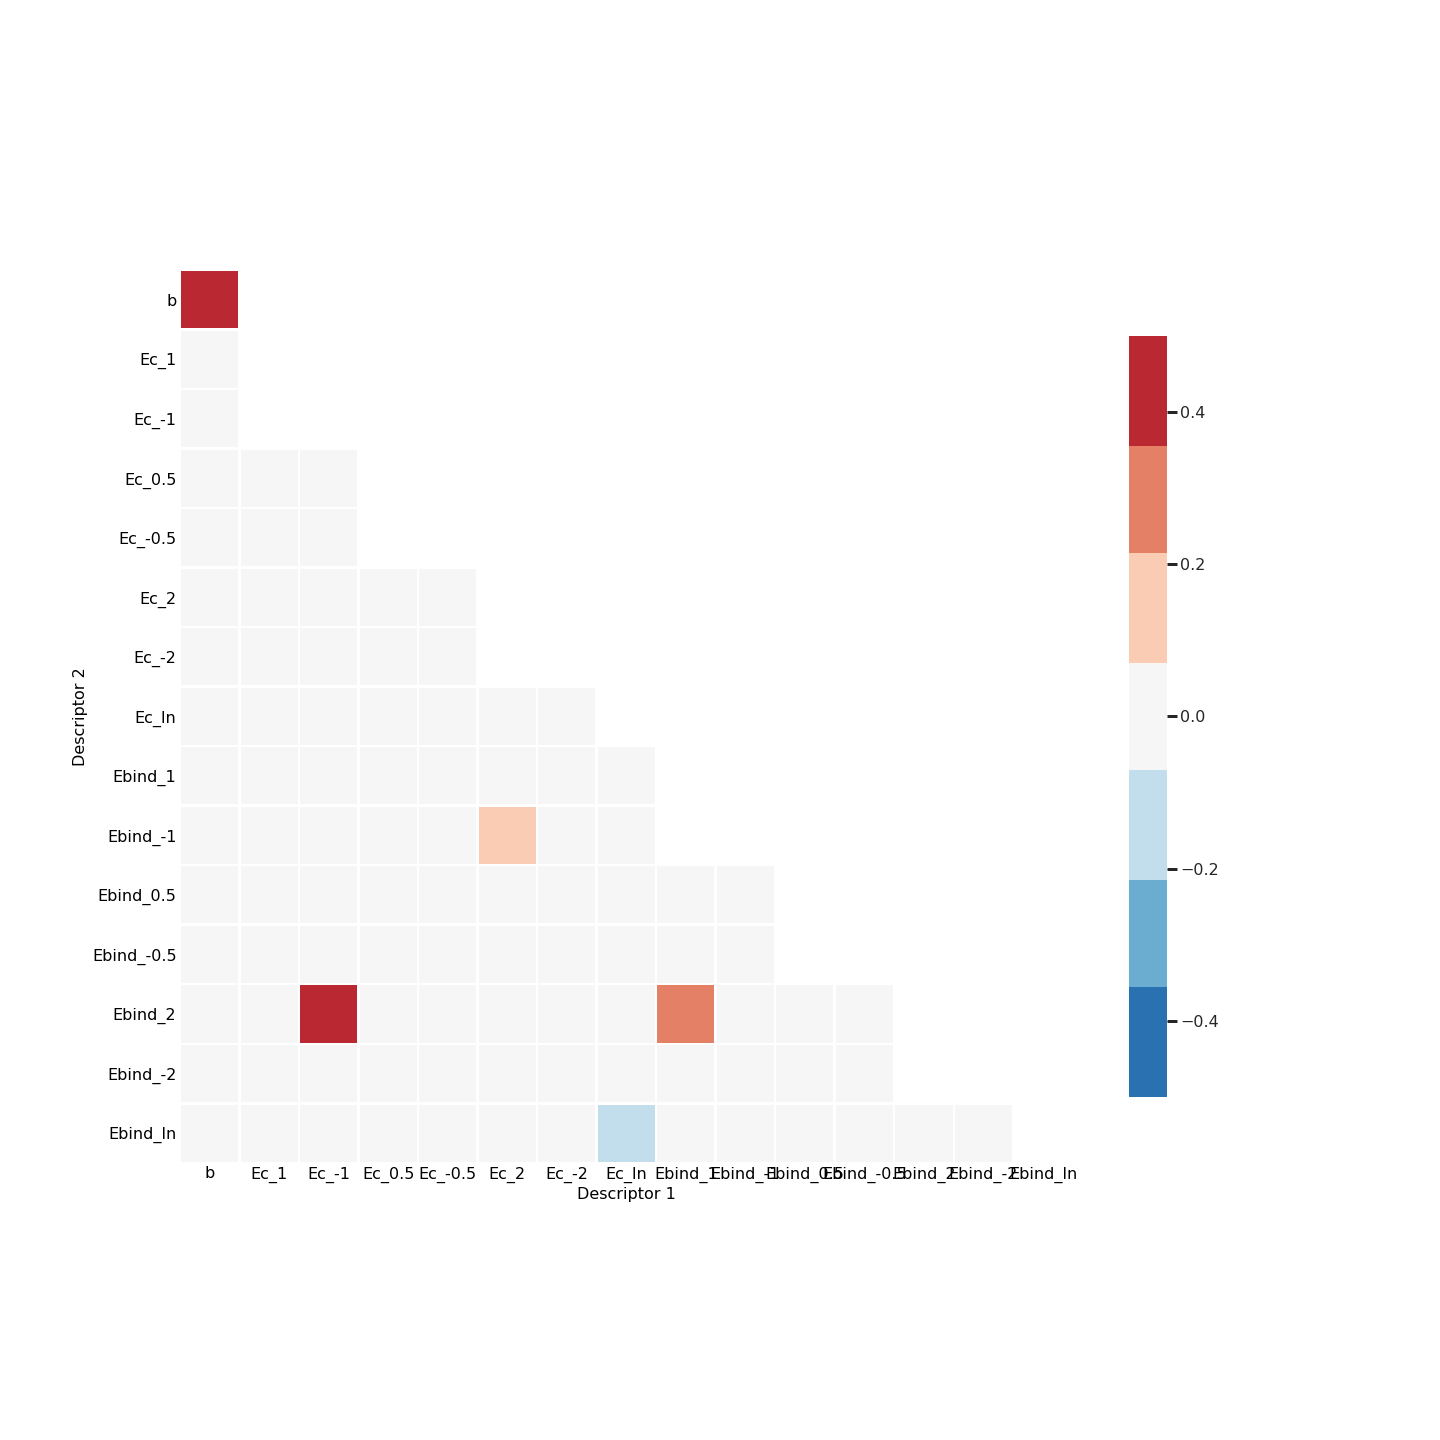
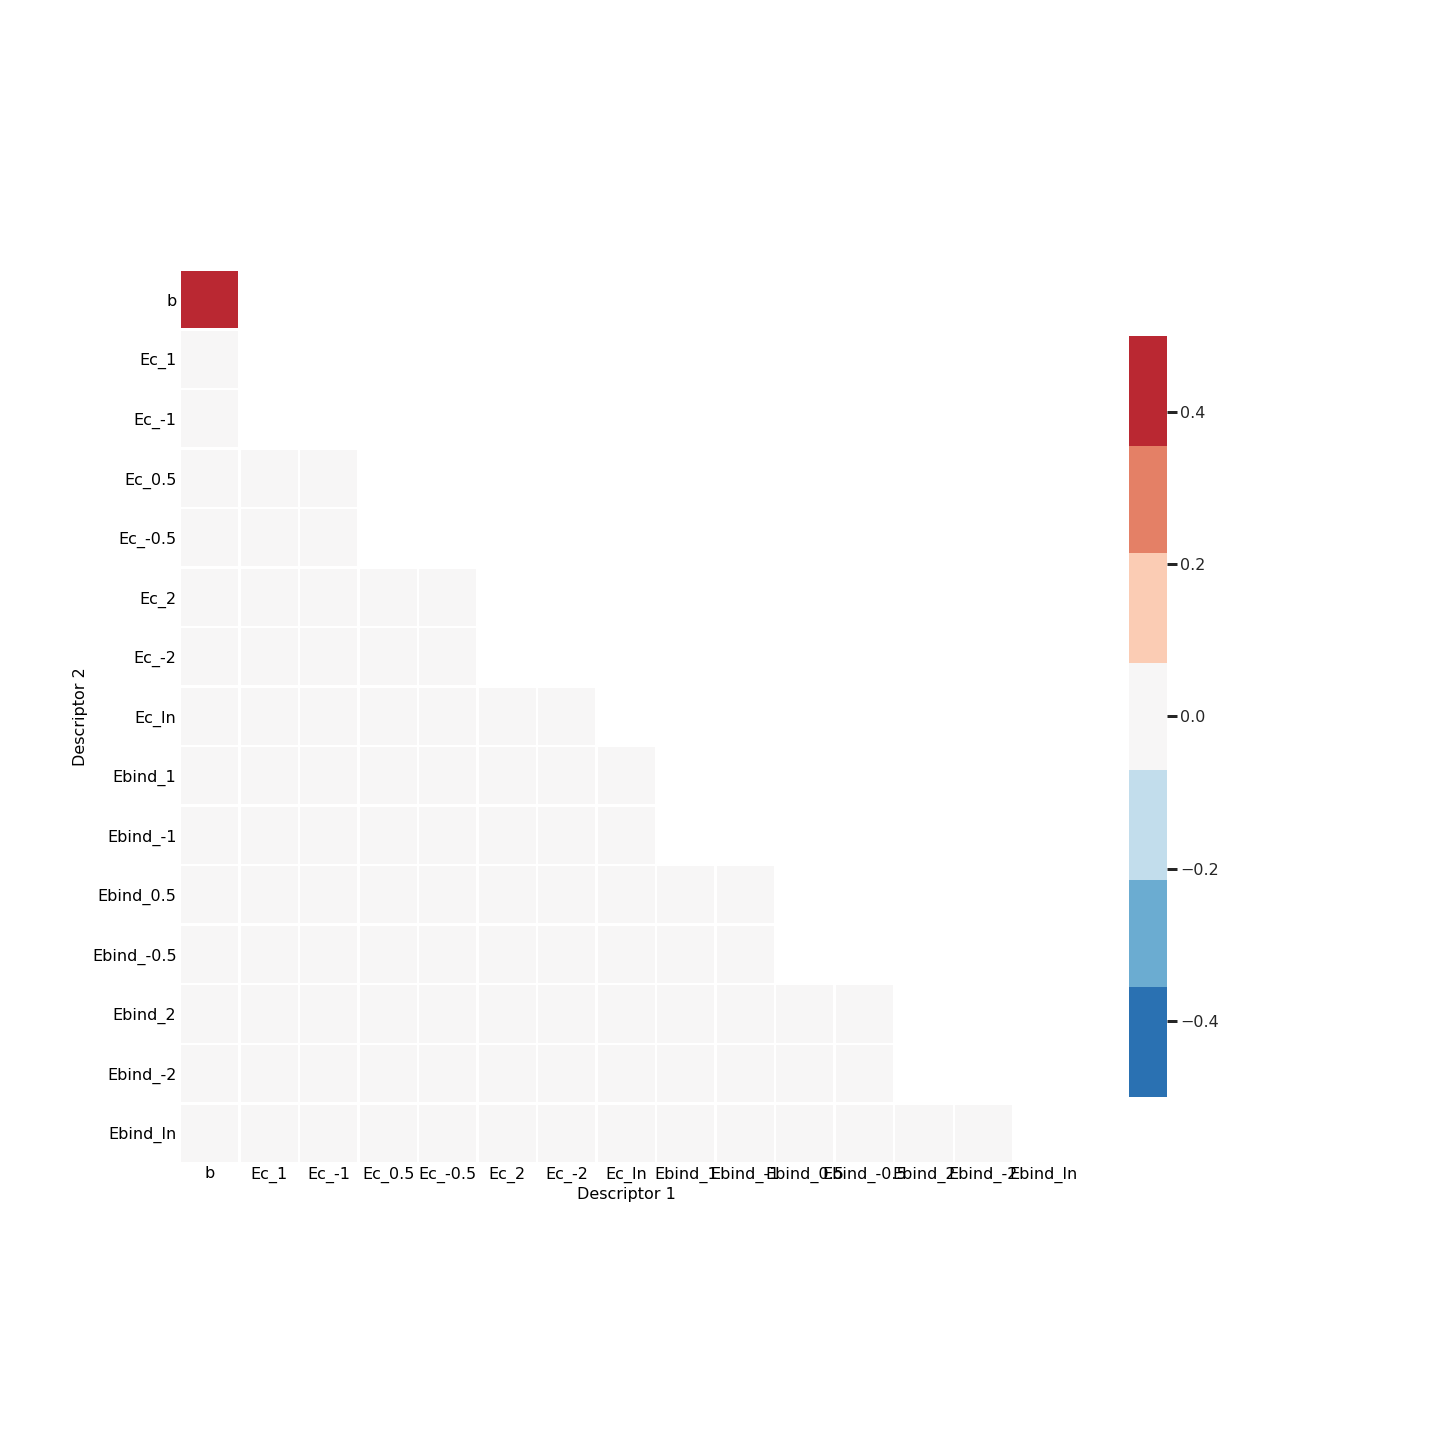
updated ridge

diff --git a/v2/Ea_v2.py b/v2/Ea_v2.py
@@ -270,37 +270,37 @@ lasso_coefs_unnormailized[0] = lasso_coefs[0] - np.sum(mv/sv*lasso_coefs[1:])
 
 
 #%% Plot coefficients function
-def make_coef_matrix(x_feature_nonzero, J_nonzero):
+def make_coef_matrix(x_features, Js):
     
     '''
     Put the coefficient matrix back
     '''
     
-    lasso_coef_matrix = np.zeros((n_features, n_features))
+    coef_matrix = np.zeros((n_features, n_features))
     
-    for xi, feature_names in enumerate(x_feature_nonzero):
-        Ji = J_nonzero[xi]
+    for xi, feature_names in enumerate(x_features):
+        Ji = Js[xi]
         
         if len(feature_names) == 1:
             
             if feature_names == 'b':
-                lasso_coef_matrix[0,0] = Ji
+                coef_matrix[0,0] = Ji
                 
             else:
                 # row number
                 ri = np.where(np.array(x_secondary_feature_names) == feature_names)[0][0] + 1
                 # column number
                 ci = 0
-                lasso_coef_matrix[ri,ci] = Ji
+                coef_matrix[ri,ci] = Ji
                 
         if len(feature_names) == 2:
             # row number
             ri = np.where(np.array(x_secondary_feature_names) == feature_names[1])[0][0] + 1
             ci = np.where(np.array(x_secondary_feature_names) == feature_names[0])[0][0] + 1
             
-            lasso_coef_matrix[ri,ci]
+            coef_matrix[ri,ci]
             
-    return lasso_coef_matrix
+    return coef_matrix
 
 
 def plot_tri_correlation_matrix(coef_matrix, model_name, output_dir):
@@ -338,6 +338,10 @@ def plot_tri_correlation_matrix(coef_matrix, model_name, output_dir):
     ax.set_ylabel('Descriptor 2')
     fig.savefig(os.path.join(output_dir, model_name + '_coef_heatmap.png'))
 
+# Implement the plot functions on lasso
+lasso_coef_matrix = make_coef_matrix(x_feature_nonzero, J_nonzero)
+plot_tri_correlation_matrix(lasso_coef_matrix, model_name, output_dir)    
+    
 
 #%% Ridge regression
 '''
@@ -371,14 +375,16 @@ rtools.plot_RMSE_path(ridge_alpha, alphas_grid_ridge, ridge_RMSE_path, model_nam
 rtools.plot_performance(X, y, ridgeCV,model_name, output_dir)
 
 ridge_RMSE, ridge_r2 = rtools.parity_plot(y, ridgeCV.predict(X), model_name, output_dir)
-rtools.plot_coef(ridgeCV.coef_, terms, model_name, output_dir)
+#rtools.plot_coef(ridgeCV.coef_, x_plot_feature_names, model_name, output_dir)
 
 ridge_coefs_unnormailized = np.zeros_like(ridge_coefs)
 ridge_coefs_unnormailized[1:] = ridge_coefs[1:]/sv
 ridge_coefs_unnormailized[0] = ridge_coefs[0] - np.sum(mv/sv*lasso_coefs[1:])
 
 
-
+# Implement the plot functions on lasso
+ridge_coef_matrix = make_coef_matrix(x_features_poly, ridge_coefs)
+plot_tri_correlation_matrix(ridge_coef_matrix, model_name, output_dir) 
 
 
 
